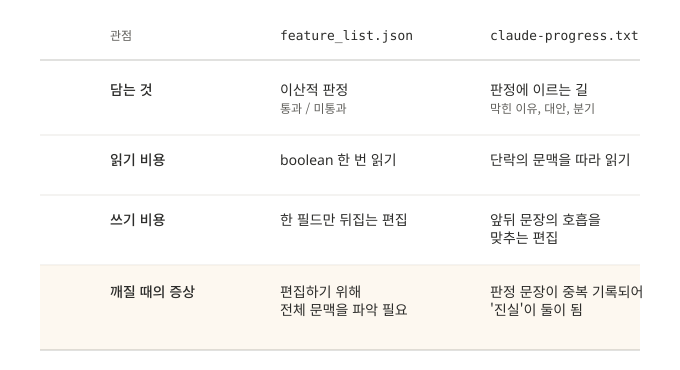
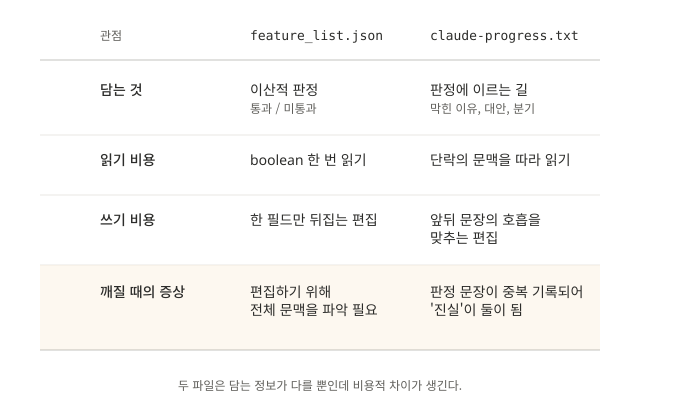
update: 이미지 크기 조절 및 표 이미지 공간감 수정

diff --git a/_posts/2026/2026-04-18-에이전트가-기억이-충분한데도-결과가-나빠지는-이유와-해결책.md b/_posts/2026/2026-04-18-에이전트가-기억이-충분한데도-결과가-나빠지는-이유와-해결책.md
@@ -1,5 +1,5 @@
 ---
-title: "에이전트가 혼란스러워 하는 이유"
+title: "에이전트가 기억이 충분한데도 결과가 나빠지는 이유와 해결책"
 date: 2026-04-19 18:33:00 +09:00
 categories: [AI, Context Engineering]
 tags: [context-engineering]
@@ -27,7 +27,7 @@ Anthropic은 이 현상을 **컨텍스트 부패**(context rot)라 부른다. 10
 
 세 요인이 합쳐져 절벽 같은 성능 급감소가 아닌 완만한 경사면을 만든다. 컨텍스트가 길어진다고 모델이 갑자기 멍청해지는 것은 아니지만, *정확도와 회상 능력은 조용히 깎인다*.
 
-![img.png](assets/img/에이전트가-혼란스러워-하는-이유/attention-budget-slope.png)
+![img.png](assets/img/에이전트가-혼란스러워-하는-이유/attention-budget-slope.png){: width="100%" }
 
 여기서 좋은 컨텍스트의 원리가 따라 나온다. 원하는 동작을 끌어내는 *최소한의 고신호 토큰*. 원문은 정적인 컨텍스트가 큐레이션되는 곳을 세 층으로 짚는다.
 
@@ -61,7 +61,7 @@ Anthropic은 이 현상을 **컨텍스트 부패**(context rot)라 부른다. 10
 
 원문이 셋을 나란히 놓고 "task에 따라 골라 쓰라"고 하는 건 좋은 조언이다. 하지만 그 조언 *밑에 깔린 공통 메커니즘*은 원문이 명시하지 않는다. 그래서 셋이 별개의 트릭처럼 읽히고, 어떤 task에 어떤 걸 쓸지를 *경험적으로* 매칭하는 꼴이 되기 쉽다. 공통 메커니즘을 한 번 짚어두면 매칭의 기준이 달라진다 — "이 task에서 컨텍스트를 잡아먹는 토큰 덩어리는 *무엇이고*, 그걸 어디로 빼낼 수 있는가"를 먼저 묻게 된다. 빼낼 대상이 정해지면 어느 전략이 맞는지는 거의 자동으로 따라온다. 과거 메시지면 compaction, 진행 상태면 note-taking, 탐색 과정이면 sub-agent.
 
-![img.png](assets/img/에이전트가-혼란스러워-하는-이유/three_strategies_one_interface.png)
+![img.png](assets/img/에이전트가-혼란스러워-하는-이유/three_strategies_one_interface.png){: width="100%" }
 
 ### 2.2. Tool 정의는 호출되지 않아도 비용을 낸다
 
@@ -71,7 +71,7 @@ Anthropic은 이 현상을 **컨텍스트 부패**(context rot)라 부른다. 10
 
 그런데 에이전트의 도구 집합은 다르다. MCP 서버 열 개를 붙여 도구 쉰 개를 등록한 순간, 우리가 그중 하나도 호출하지 않은 턴에서도 쉰 개의 정의 전부가 시스템 프롬프트에 실려 모델 앞에 놓인다. 어텐션 예산은 호출 빈도가 아니라 존재 자체에 비례해서 깎인다. 백엔드의 dependency가 디스크에 잠자고 있는 자원이라면, tool 정의는 매 턴 깨어나 자기 자리를 차지하는 자원이다.
 
-![img.png](assets/img/에이전트가-혼란스러워-하는-이유/dependency-vs-tool-cost.png)
+![img.png](assets/img/에이전트가-혼란스러워-하는-이유/dependency-vs-tool-cost.png){: width="100%" }
 
 **왜 매 턴일까?** LLM 추론은 상태가 없기 때문이다. 직전 턴에 `read_file`을 골랐으니 다음 턴에는 그 도구의 시그니처를 빼도 된다 — 같은 최적화가 통하지 않는다. 모델은 매 턴 "어떤 도구를 호출할 수 있는가" 라는 선택지의 전체 집합을 새로 받아야 다음 행동을 정한다. 정의 한 줄 한 줄이 호출 가능성으로서 거기 있어야 의미가 있는 자원이다. 그러니 도구를 추가하는 일은 "필요할 때만 발동되는 기능을 하나 더 얹는" 일이 아니라, 모든 후속 추론의 시야 한구석을 영구적으로 차지하는 토큰 덩어리를 등록하는 일에 가깝다.
 
@@ -140,7 +140,7 @@ Spring Boot 회원가입 API를 설계 국면에서 열어보면, 처음 짚게 
 
 눈에 띄는 차이가 보인다. designer 쪽 책임 항목에는 "다시 쪼개는 것을 망설이지 않는다"가 있고, coder 쪽 제약 항목에는 "feature 경계는 고정되어 있다"가 있다. 그리고 coder 쪽에는 "쪼갠다", "경계를 다시 긋는다" 같은 설계 동사가 *아예 등장하지 않는다*. 금기 항목에서 "요구사항을 다시 쪼개지 않는다"로 한 번 호명되고 끝이다. 이 작은 차이가 두 가지 효과를 가져온다.
 
-![img.png](assets/img/에이전트가-혼란스러워-하는-이유/designer-coder-vocab-split.png)
+![img.png](assets/img/에이전트가-혼란스러워-하는-이유/designer-coder-vocab-split.png){: width="100%" }
 
 첫 번째는 **권한의 경계**다. 에이전트는 매 턴 "내가 할 수 있는 일은 무엇인가"를 시스템 프롬프트에서 재확인하고 움직인다. 그 목록 안에 "feature를 다시 쪼갠다"가 없으면, 에이전트가 설계 작업을 할 **경로** 자체가 사라진다. 원칙 한 줄로 "재설계하지 마라"를 걸어두는 것과는 다르다. 원칙은 프롬프트 어딘가에 적혀 있고 에이전트는 매번 *그 원칙을 참고해서* 판단을 내리지만 원칙이 지켜지지 않을 가능성이 있다. 반면 언급조차 하지 않으면 그런 일을 시작할 계기가 없어진다. 
 
@@ -182,9 +182,9 @@ feat-03(이메일 인증) 작업 중. verification 3개 중 2개 통과. 세 번
 판단 필요 — 경계 안쪽에서 처리하면 되는가, 설계로 돌려야 하는가.
 ```
 
-두 파일이 같은 `feat-03`을 다루지만 담는 것이 다르다. JSON 쪽은 verification 세 항목 중 어느 것이 통과했는지를 boolean 한 번으로 읽게 해준다. 한 항목의 `passes`를 뒤집는 편집은 글자 다섯 개를 바꾸는 일이고, 나머지 항목과 파일 구조에는 손댈 이유가 없다. 반면 자연어 노트는 읽기·쓰기 모두 이렇게 압축되지 않는다. 막힌 *이유*, 올라온 대안, 그 대안이 어디까지 설계를 건드리는지를 한 단락으로 풀어내려면 문장들이 서로 호흡을 맞춰야 한다 — 단락의 *뜻이 남는* 파일이기 때문이다. 두 파일은 스키마 밀도가 다른 게 아니라 **담는 종류의 정보 자체가 다르다.** JSON은 판정을 담고, 노트는 판정에 *이르는 길*을 담는다.
+두 파일이 같은 `feat-03`을 다루지만 담는 것이 다르다. JSON 쪽은 verification 세 항목 중 어느 것이 통과했는지를 boolean 한 번으로 읽게 해준다. 한 항목의 `passes`를 뒤집는 편집은 글자 다섯 개를 바꾸는 일이고, 나머지 항목과 파일 구조에는 손댈 이유가 없다. 반면 자연어 노트는 읽기·쓰기 모두 이렇게 압축되지 않는다. 막힌 *이유*, 올라온 대안, 그 대안이 어디까지 설계를 건드리는지를 한 단락으로 풀어내려면 문장들이 서로 호흡을 맞춰야 한다 — 단락의 *뜻이 남는* 파일이기 때문이다. 이걸 알고 나면 두 파일은 스키마 여부가 아닌 **담는 종류의 정보 자체가 다르다**고 보인다. JSON은 판정을 담고, 노트는 판정에 *이르는 길*을 담는다.
 
-![img.png](assets/img/에이전트가-혼란스러워-하는-이유/two-files-role-split.png)
+![img.png](assets/img/에이전트가-혼란스러워-하는-이유/two-files-role-split.png){: width="100%" }
 
 이 구분이 각 파일에 어울리는 작업의 결을 가른다. feature 단위의 완료 여부, 다음 세션이 집어들어야 할 항목 같은 *이산적 진행 상태*는 JSON 쪽이 싸고 안전하다. "여기서 왜 막혔고, 두 갈래 중 어느 쪽으로 가야 하는지"처럼 *이유를 포함하는 진행 상태*는 JSON에 우겨넣으면 필드 하나가 긴 문자열이 되어 스키마의 장점이 무너진다. 두 파일을 나눠 쓰는 의미는 각자가 *자기에게 맞는 정보만* 담을 때에만 살아남는다 — `feature_list.json`에 자연어 메모가 자라나거나 `claude-progress.txt`에 판정 성격의 문장이 중복 기록되면 곧 두 파일 사이에 어느 쪽이 진실인지 판정하는 비용이 매 세션 깔린다.
 
